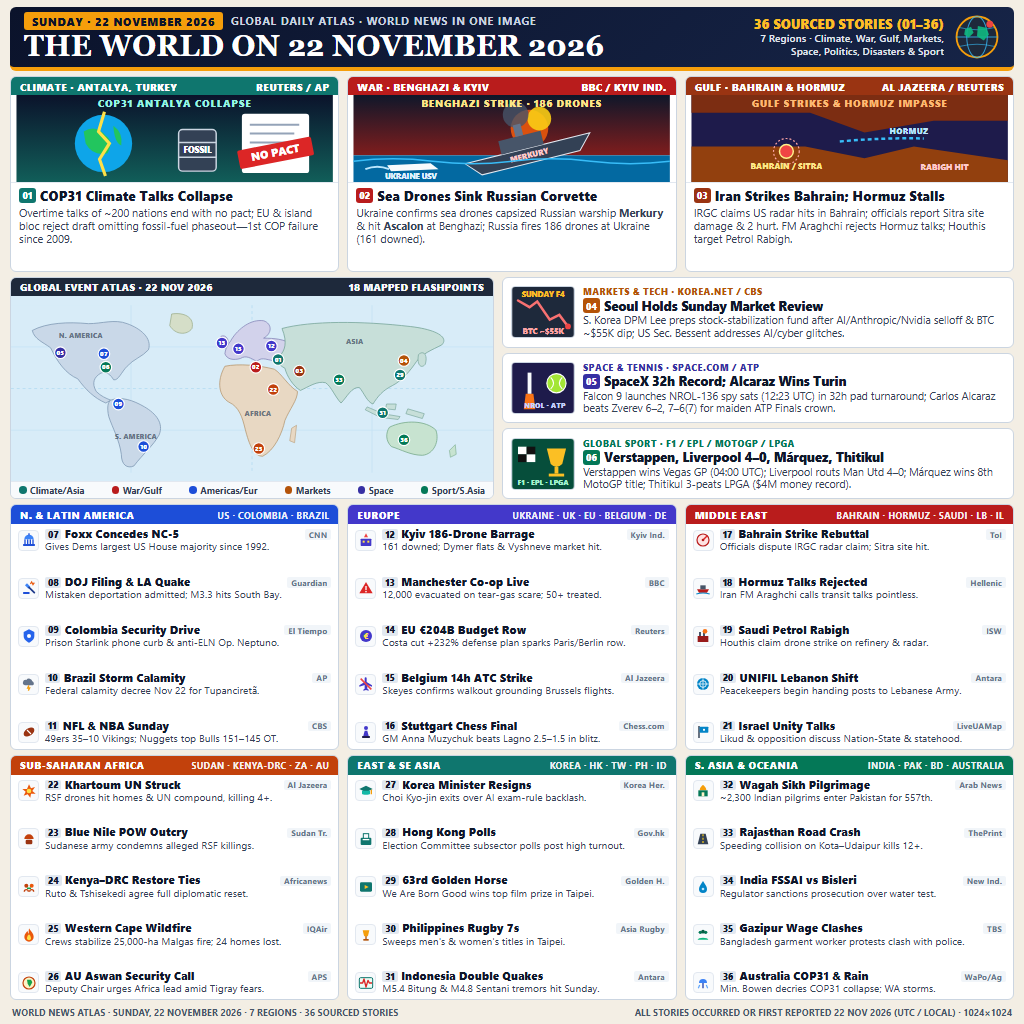
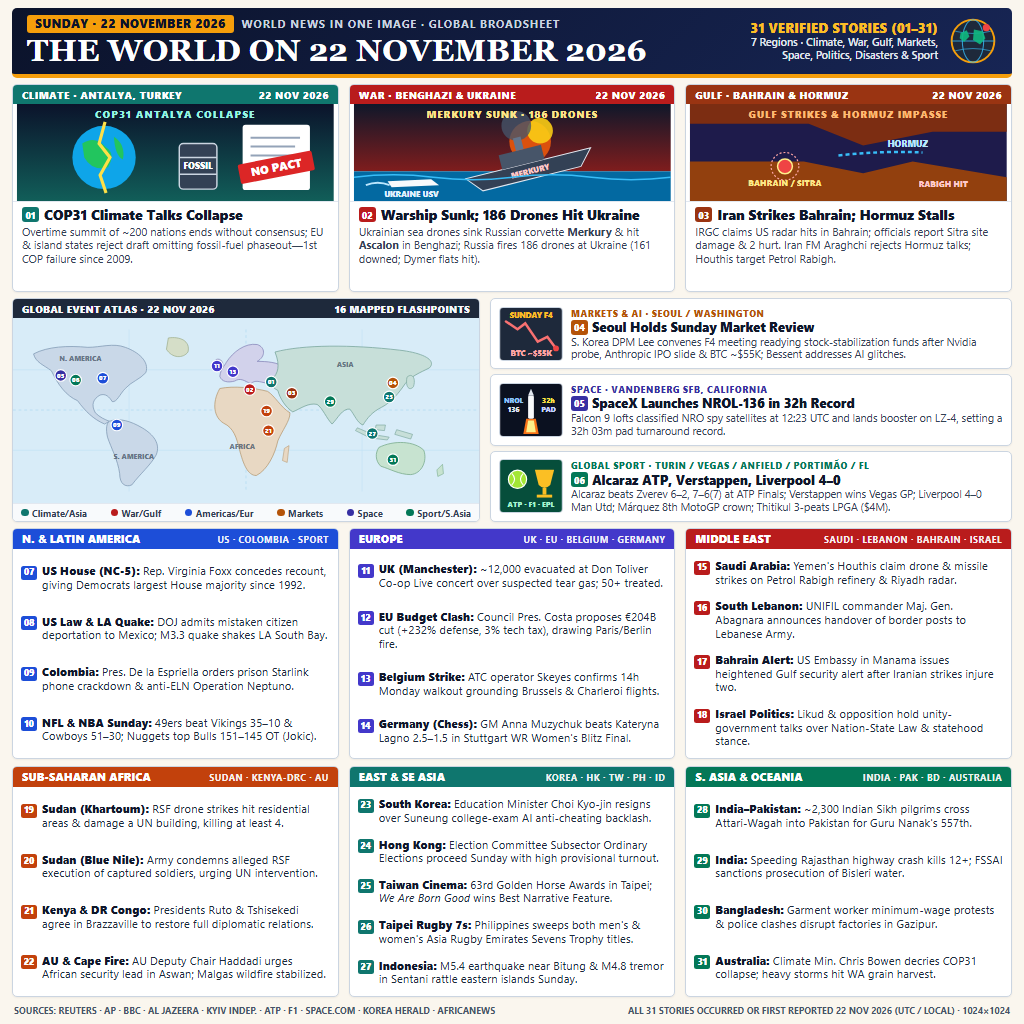
feat: V5 broadsheet atlas with 31 pure Nov-22 stories and clean typography

diff --git a/main.ts b/main.ts
@@ -23,6 +23,9 @@ const height = pngBytes.readUInt32BE(20);
 if (width === 0 || height === 0 || width > MAX_DIM || height > MAX_DIM) {
   throw new Error(`PNG dimensions out of range: ${width}x${height}`);
 }
+if (pngBytes.length < 1024) {
+  throw new Error('PNG payload unexpectedly small');
+}
 if (!pngBytes.subarray(-12).includes(Buffer.from('IEND'))) {
   throw new Error('Missing PNG IEND trailer');
 }
